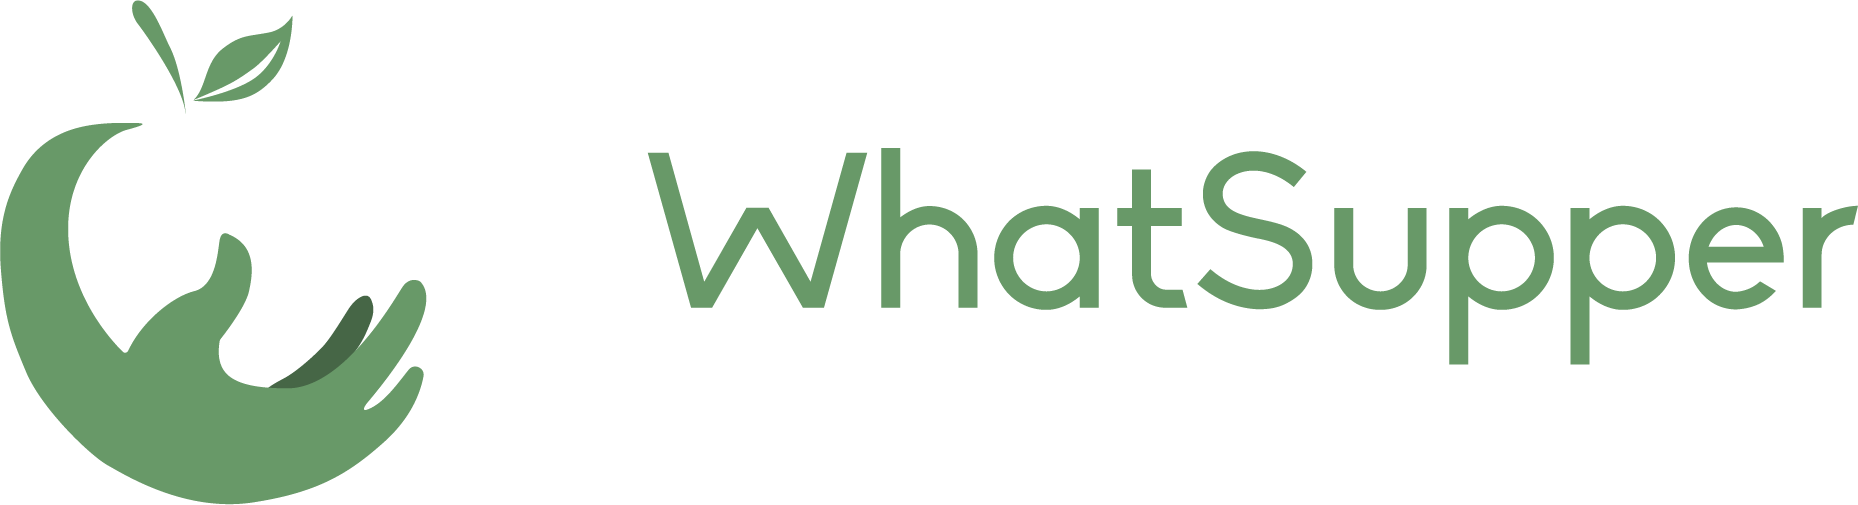
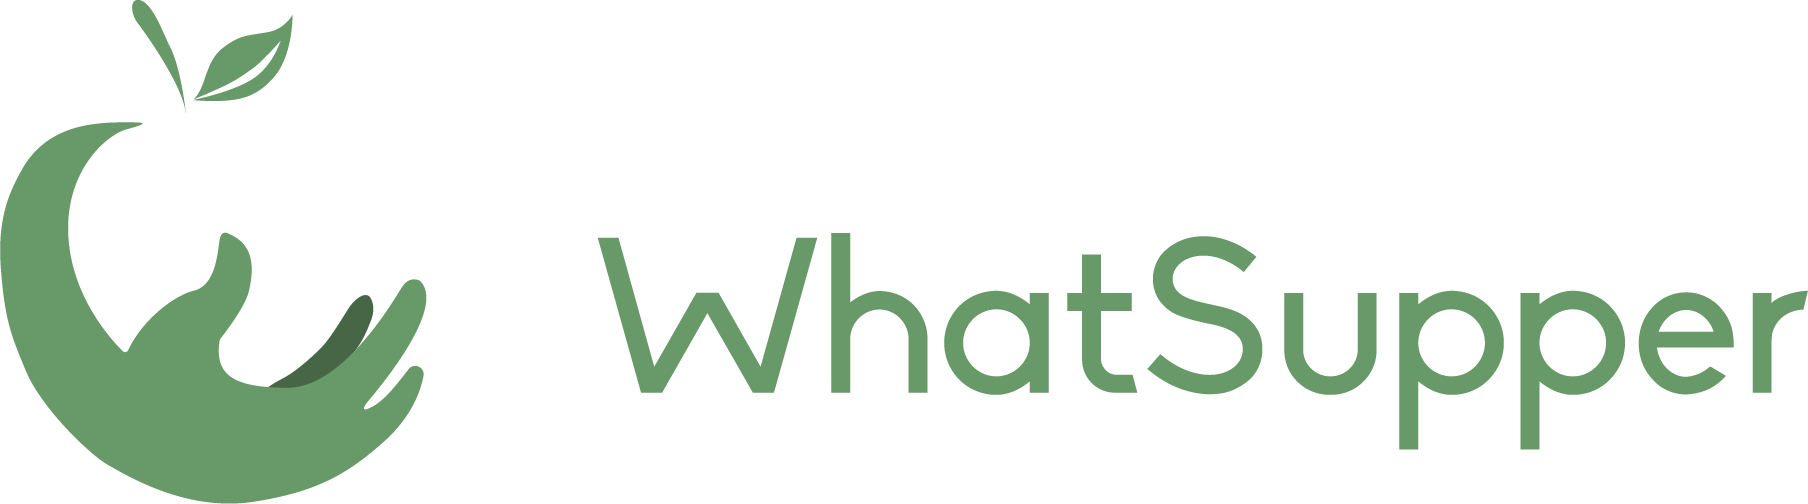
push

diff --git a/components/NavBar/NavBar.js b/components/NavBar/NavBar.js
@@ -2,8 +2,12 @@ import Link from "next/link"
 import Image from "next/image"
 import whatsupper  from "@/public/whatsupper.png"
 import styles from '@/components/NavBar/NavBar.home.module.css'
+import { useState } from "react"
+import { useRouter } from "next/router"
 
-export default function NavBar (){
+
+export default function NavBar () {
+    const router = useRouter()
     return (
         <>
             <div className={styles.navbarItems}>
@@ -15,12 +19,11 @@ export default function NavBar (){
                     />
                 </div>
                 <div className={styles.navbarLinks}>
-                    <Link href="/" className={styles.link1}>Product</Link>
-                    <Link href="/" className={styles.link2}>Blog</Link>
-                    <Link href="/" className={styles.link3}>Contact Us</Link>
-                </div>                
+                    <Link href="/" className={`${styles.link1} ${router.pathname === "/" ? styles.clicked : ""}`}>Product</Link>
+                    <Link href="/" className={`${styles.link2} ${router.pathname === "/" ? styles.clicked : ""}`}>Blog</Link>
+                    <Link href="/" className={`${styles.link1} ${router.pathname === "/" ? styles.clicked : ""}`}>Contact Us</Link>              
+                </div>
             </div>
-
         </>
     )
 }

diff --git a/components/NavBar/NavBar.home.module.css b/components/NavBar/NavBar.home.module.css
@@ -1,38 +1,57 @@
-@import url('https://fonts.googleapis.com/css2?family=Manrope&display=swap');
+@import url('https://fonts.googleapis.com/css2?family=Manrope:wght@400;700&display=swap');
 
 
 .navbarItems{
     display: flex;
     flex-direction: row;
-    padding-left: 3%;
+    margin-top: -70px;
 }
 .whatsupperLogo{
-    padding: 2.5%;
+    margin-left: -5px; 
 }
 
 .navbarLinks{
     display: inline-block;
-    padding-top: 3rem;
+    padding-top: 1.7rem;
     font-family: 'Manrope', sans-serif;
-    font-weight: bold;
-    
+    font-weight: 400;
+    /* color: #333;
+    transition: color 0.3s ease;  */
 } 
 
+/* .navbarLinks:hover{
+    color: #0070f3; 
+}
+
+.navbarLinks:active{
+    color: #ff4500; 
+} */
+
+
 .link1{
-    padding-left: 18rem;
+    padding-left: 250px;
     flex-direction: none;
     text-decoration: none;
-    color: black;
+    /* color: black; */
+    color: white; 
 }
 
 .link2{
-    margin: 8rem;
+    margin-left: 5rem;
     flex-direction: none;
     text-decoration: none;
-    color: black;
+    /* color: black; */
+    color: white;
 }
 
 .link3{
     text-decoration: none;
-    color: black;
+    margin-left: 10rem;
+    /* color: black; */
+    color: white;
+    /* pls adjust for toggle  */
+}
+
+.clicked{
+    font-weight: 700;
 }
